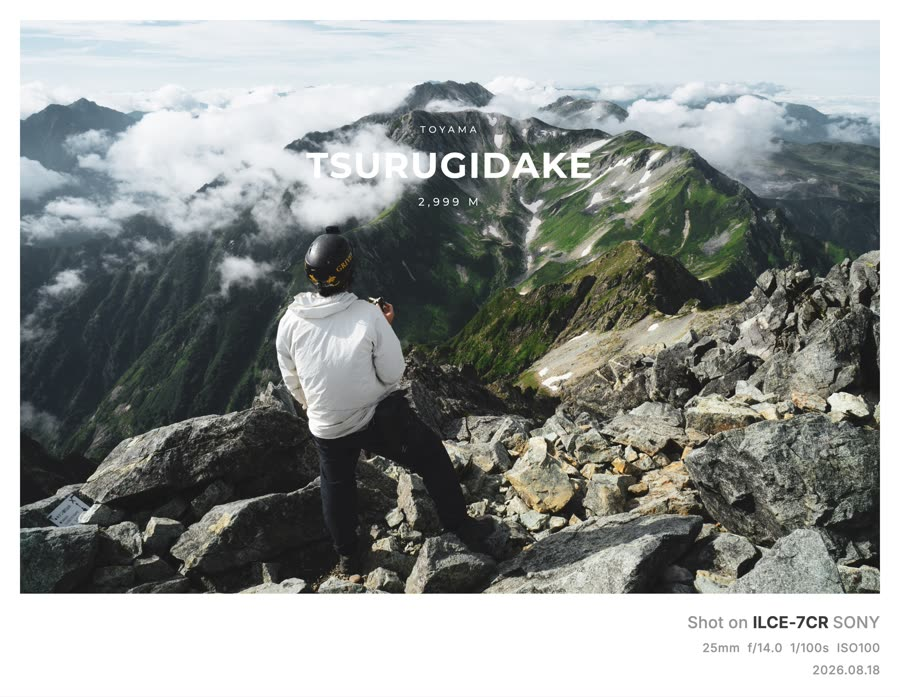
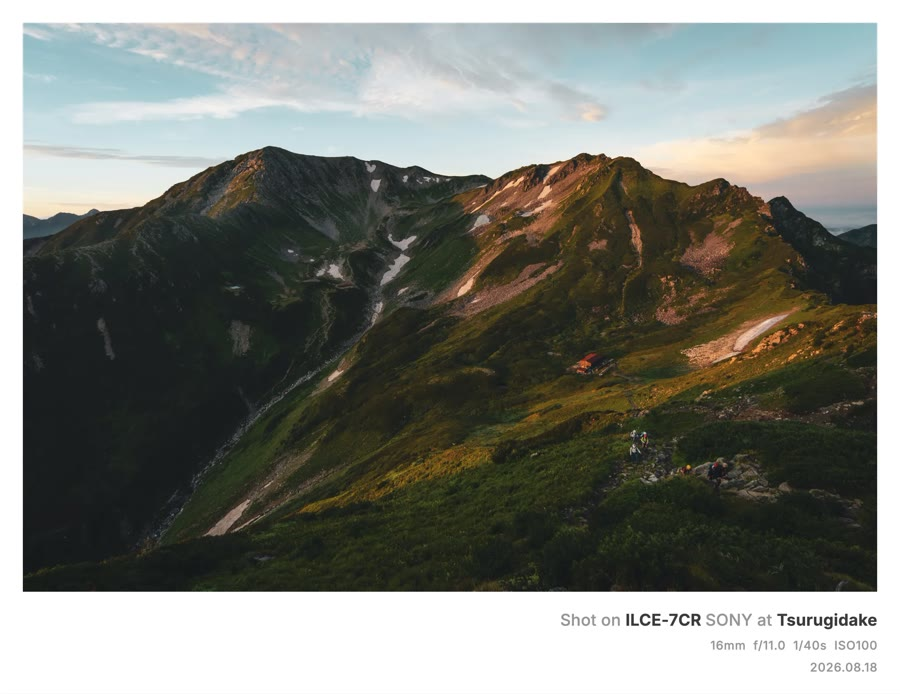
テンプレ「額」のプレビュー画像を差し替え（キャッシュバスターを v=8 に）
Claude-Session: https://claude.ai/code/session_013xe9bSfknXzRGfpdaK4sR3

diff --git a/src/components/Studio.tsx b/src/components/Studio.tsx
@@ -594,7 +594,7 @@ const EXPORT_TEMPLATES: ExportTemplate[] = [
 type TplItem = { id: string; name: string; sub: string; hint: string; tpl: ExportTemplate | null };
 // プレビュー画像のキャッシュバスター。同名のまま画像を差し替えたら数字を上げること
 // （public/ 配下はハッシュ付与されず、GitHub Pages 等でブラウザキャッシュが残るため）。
-const TPL_PREVIEW_VER = "?v=7";
+const TPL_PREVIEW_VER = "?v=8";
 const TPL_ITEMS: TplItem[] = [
   ...EXPORT_TEMPLATES.map((t) => ({ id: t.id, name: t.name, sub: t.sub, hint: t.hint, tpl: t as ExportTemplate | null })),
   { id: "custom", name: "素", sub: "studio.theme.custom.sub", hint: "studio.theme.custom.hint", tpl: null },
